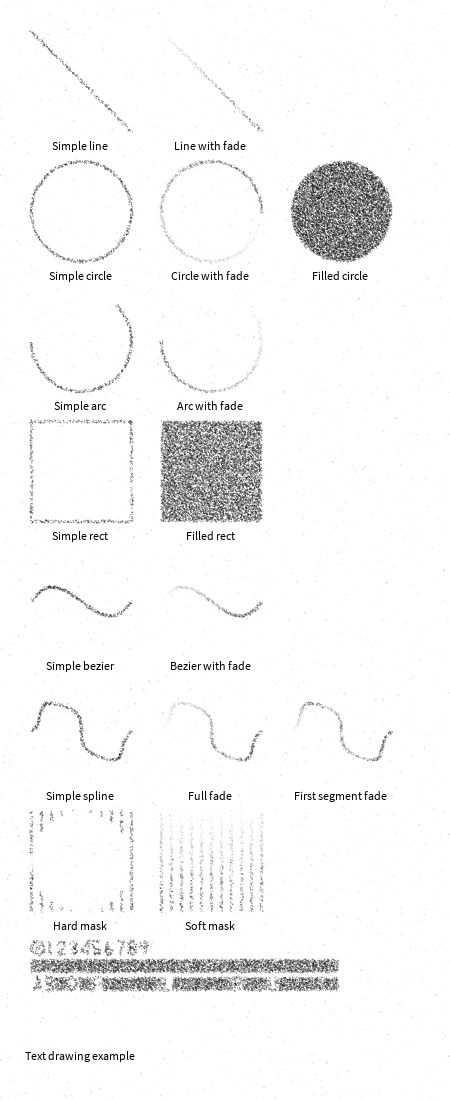
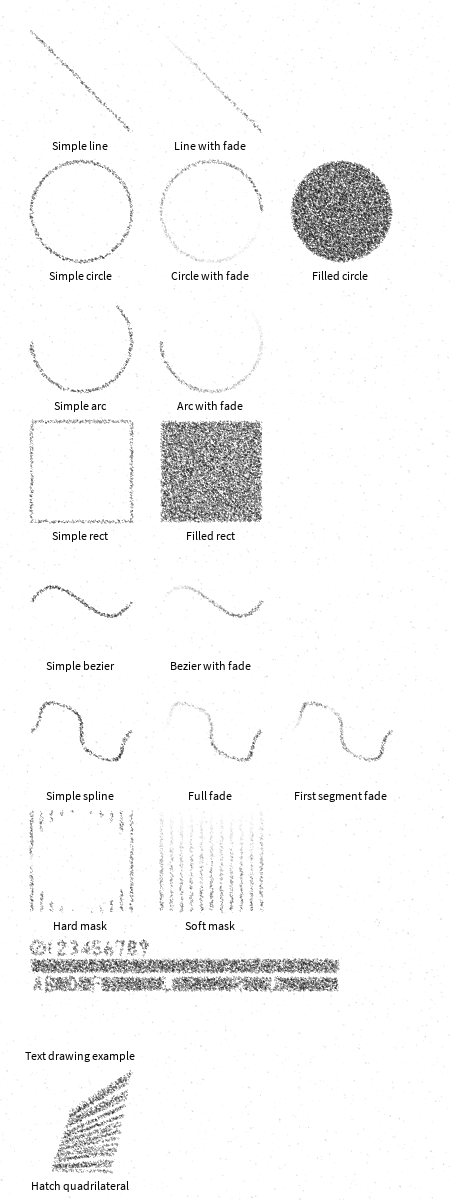
Add hatchPolygon function

diff --git a/src/paperandpencil/PaperAndPencil.java b/src/paperandpencil/PaperAndPencil.java
@@ -10,7 +10,7 @@ import processing.core.PGraphics;
  * randomness and imperfection to standard geometric shapes.
  */
 public class PaperAndPencil {
-    PApplet p;
+    public PApplet p;
     int pencilColor;
     boolean printMode;
     float pencilSpread;
@@ -384,6 +384,40 @@ public class PaperAndPencil {
         float increment = getFillIncrement();
         for (float d = 2; d < diameter; d += increment) {
             circle(centerX, centerY, d, false);
+        }
+    }
+
+    /**
+     * Fills a polygon defined by four vertices with a hatching pattern.
+     * Hatching is different from solid fill - it creates a series of almost-parallel lines
+     * that give the impression of shading.
+     * Lines are drawn parallel to the edge (x1, y1) - (x2, y2), spaced based on quality mode.
+     * 
+     * @param x1 x-coordinate of the first vertex
+     * @param y1 y-coordinate of the first vertex
+     * @param x2 x-coordinate of the second vertex
+     * @param y2 y-coordinate of the second vertex
+     * @param x3 x-coordinate of the third vertex
+     * @param y3 y-coordinate of the third vertex
+     * @param x4 x-coordinate of the fourth vertex
+     * @param y4 y-coordinate of the fourth vertex
+     */
+    public void hatchPolygon(float x1, float y1, float x2, float y2, float x3, float y3, float x4, float y4) {
+        float increment = getFillIncrement() / PApplet.dist(x1, y1, x2, y2);
+        for (float t = 0; t <= 1; t += increment) {
+            float startX = PApplet.lerp(x1, x4, t);
+            float startY = PApplet.lerp(y1, y4, t);
+            float endX = PApplet.lerp(x2, x3, t);
+            float endY = PApplet.lerp(y2, y3, t);
+
+            // sligthly randomize the start and end points y to avoid perfect parallel lines
+            // capped by polygon coords
+            startY += p.random(-getPencilSpreadForMode(), getPencilSpreadForMode());
+            startY = PApplet.constrain(startY, Math.min(y1, y4), Math.max(y1, y4));
+            endY += p.random(-getPencilSpreadForMode(), getPencilSpreadForMode());
+            endY = PApplet.constrain(endY, Math.min(y2, y4), Math.max(y2, y4));
+
+            line(startX, startY, endX, endY, false);
         }
     }
 
